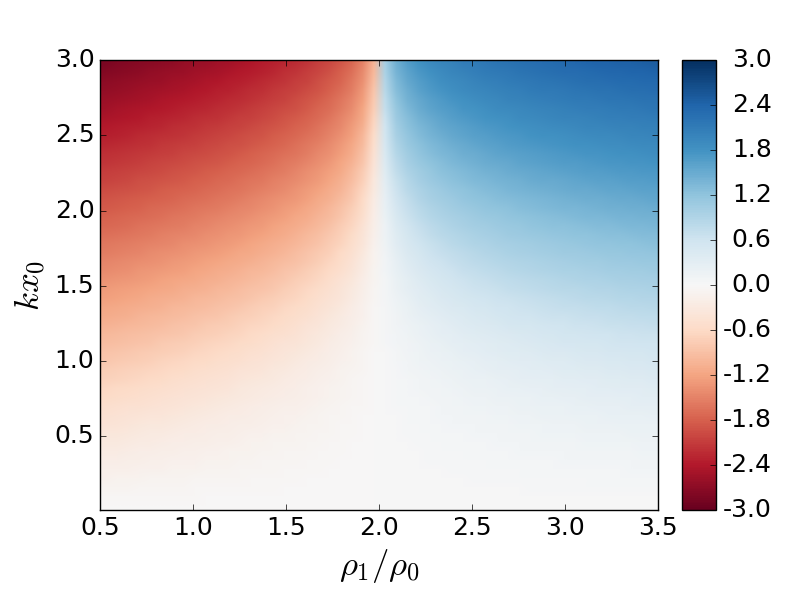
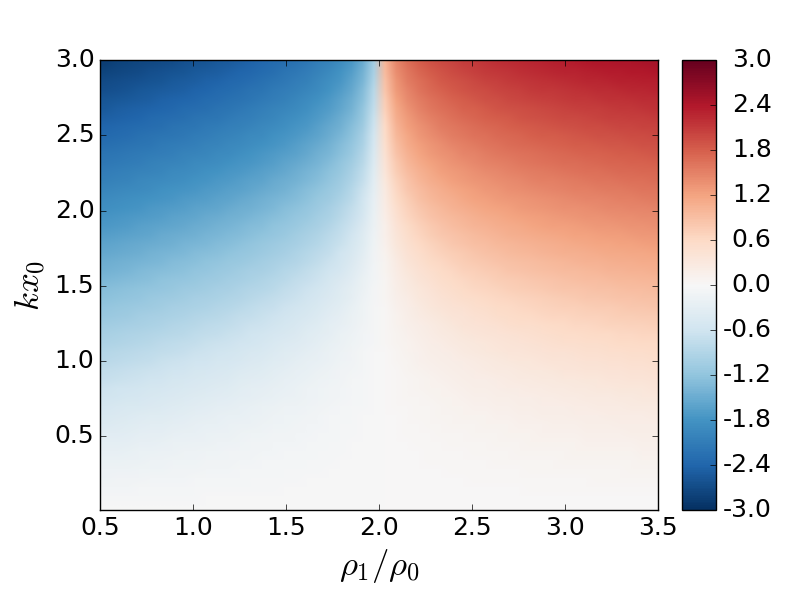
Some disp rel problems solved. Now we need log colormap with centre at 1.0. how do dis?

diff --git a/sms.py b/sms.py
@@ -13,6 +13,7 @@ import matplotlib.pyplot as plt
 import matplotlib
 import matplotlib.patches as patches
 from mpl_toolkits.axes_grid1 import make_axes_locatable
+import shiftedcolormap as scm
 
 # SBS
 # Define the sound speeds and alfven speeds.
@@ -35,11 +36,14 @@ for mode in mode_options:
     if 'saus' in mode:
         saus_mode_options.append(mode)
 
-mode = mode_options[1]
+mode = mode_options[0]
 
 #plot_variable = 'amp-ratio'
+plot_variable = 'amp-ratio-2'
 #plot_variable = 'min-pert-shift'
+#plot_variable = 'min-pert-shift-2'
 #plot_variable = 'W'
+#plot_variable = 'test'
 
 print('Plotting ' + plot_variable + ' for ' + mode + ' mode')
 
@@ -57,10 +61,38 @@ def m2(W):
     m2function = sc.sqrt(1-W**2*c2**(-2))
     return m2function
 
+def lamb0(W):
+    return -(vA**2-W**2)*1.j/(m0(W)*W)
+
+def lamb1(W, R1):
+    return R1*W*1.j/m1(W, R1)
+    
+def lamb2(W):
+    return R2*W*1.j/m2(W)
+
 error_string_kink_saus = "mode must be 'kink' or 'saus', duh!"
 error_string_subscript = "subscript argument must be 1 or 2"
 
 def disp_rel_sym(W, K, R1, mode, subscript):
+    if subscript == 1:
+        if mode in kink_mode_options:
+            dispfunction = lamb0(W) * sc.tanh(m0(W) * K) + lamb1(W,R1)
+        elif mode in saus_mode_options:
+            dispfunction = lamb0(W) + lamb1(W,R1) * sc.tanh(m0(W) * K)
+        else:
+            print(error_string_kink_saus)
+    elif subscript == 2:
+        if mode in kink_mode_options:
+            dispfunction = lamb0(W) * sc.tanh(m0(W) * K) + lamb2(W)
+        elif mode in saus_mode_options:
+            dispfunction = lamb0(W) + lamb2(W) * sc.tanh(m0(W) * K)
+        else:
+            print(error_string_kink_saus)
+    else:
+        print(error_string_subscript)
+    return dispfunction
+
+def disp_rel_sym_2(W, K, R1, mode, subscript):
     if subscript == 1:
         if mode in kink_mode_options:
             dispfunction = (vA**2 - W**2)*m1(W, R1)*sc.tanh(m0(W)*K) - R1*W**2*m0(W)
@@ -70,9 +102,9 @@ def disp_rel_sym(W, K, R1, mode, subscript):
             print(error_string_kink_saus)
     elif subscript == 2:
         if mode in kink_mode_options:
-            dispfunction = (vA**2 - W**2)*m2(W)*sc.tanh(m0(W)*K) - R1*W**2*m0(W)
+            dispfunction = (vA**2 - W**2)*m2(W)*sc.tanh(m0(W)*K) - R2*W**2*m0(W)
         elif mode in saus_mode_options:
-            dispfunction = (vA**2 - W**2)*m2(W) - R1*W**2*m0(W)*sc.tanh(m0(W)*K)
+            dispfunction = (vA**2 - W**2)*m2(W) - R2*W**2*m0(W)*sc.tanh(m0(W)*K)
         else:
             print(error_string_kink_saus)
     else:
@@ -84,12 +116,30 @@ def disp_rel_asym(W, K, R1):
             0.5 * m0(W) * W**2 * (vA**2 - W**2) * (R2 * m1(W,R1) + R1 * m2(W)) *
             (sc.tanh(m0(W) * K) + (sc.tanh(m0(W) * K))**(-1))) /
             (vA**2 - W**2) * (c0**2 - W**2) * (cT**2 - W**2))
+            
+def disp_rel_test(W, K, R1):
+    return disp_rel_sym(W, K, R1, 'saus',2) * disp_rel_sym(W, K, R1, 'kink',1) + disp_rel_sym(W, K, R1, 'saus',1) * disp_rel_sym(W, K, R1, 'kink',2)
+    
+def disp_rel_test_2(W, K, R1):
+    return (lamb0(W) + lamb2(W) * sc.tanh(m0(W) * K)) * (lamb0(W) * sc.tanh(m0(W) * K) + lamb1(W, R1)) + (lamb0(W) + lamb1(W, R1) * sc.tanh(m0(W) * K)) * (lamb0(W) * sc.tanh(m0(W) * K) + lamb2(W))
+
+def disp_rel_test_3(W, K, R1):
+    return disp_rel_sym(W, K, R1, 'kink',1) / disp_rel_sym(W, K, R1, 'kink',2) + disp_rel_sym(W, K, R1, 'saus',1) / disp_rel_sym(W, K, R1, 'saus',2)
     
 def amp_ratio(W, K, R1, mode):
     if mode in kink_mode_options:
-        ampfunction = m2(W)*disp_rel_sym(W,K,R1,'saus',1) / (m1(W,R1)*disp_rel_sym(W,K,R1,'saus',2))
+        ampfunction = disp_rel_sym(W,K,R1,'saus',1) / disp_rel_sym(W,K,R1,'saus',2)
     elif mode in saus_mode_options:
-        ampfunction = - m2(W)*disp_rel_sym(W,K,R1,'kink',1) / (m1(W,R1)*disp_rel_sym(W,K,R1,'kink',2))
+        ampfunction = - disp_rel_sym(W,K,R1,'kink',1) / disp_rel_sym(W,K,R1,'kink',2)
+    else:
+        print(error_string_kink_saus)
+    return ampfunction
+    
+def amp_ratio_2(W, K, R1, mode):
+    if mode in kink_mode_options:
+        ampfunction = - disp_rel_sym(W,K,R1,'kink',1) / disp_rel_sym(W,K,R1,'kink',2)
+    elif mode in saus_mode_options:
+        ampfunction = disp_rel_sym(W,K,R1,'saus',1) / disp_rel_sym(W,K,R1,'saus',2)
     else:
         print(error_string_kink_saus)
     return ampfunction
@@ -100,6 +150,16 @@ def min_pert_shift(W, K, R1, mode):
     elif mode in saus_mode_options:
         # recall that arccoth(x) = arctanh(1/x)
         shiftfunction = (1 / m0(W)) * sc.arctanh(- disp_rel_sym(W,K,R1,'kink',1) / disp_rel_sym(W,K,R1,'saus',1))
+    else:
+        print(error_string_kink_saus)
+    return shiftfunction
+    
+def min_pert_shift_2(W, K, R1, mode):
+    if mode in kink_mode_options:
+        shiftfunction = (1 / m0(W)) * sc.arctanh(disp_rel_sym(W,K,R1,'saus',2) / disp_rel_sym(W,K,R1,'kink',2))
+    elif mode in saus_mode_options:
+        # recall that arccoth(x) = arctanh(1/x)
+        shiftfunction = (1 / m0(W)) * sc.arctanh(disp_rel_sym(W,K,R1,'kink',2) / disp_rel_sym(W,K,R1,'saus',2))
     else:
         print(error_string_kink_saus)
     return shiftfunction
@@ -196,10 +256,16 @@ for i in range(0,NR1):
         print('Found solution number (' + str(i) + ',' + str(j) + ')')
         if plot_variable == 'amp-ratio':
             data_set[i,j] = amp_ratio(W, Kvals[j], R1vals[i], mode)
+        elif plot_variable == 'amp-ratio-2':
+            data_set[i,j] = amp_ratio_2(W, Kvals[j], R1vals[i], mode)
         elif plot_variable == 'min-pert-shift':
             data_set[i,j] = min_pert_shift(W, Kvals[j], R1vals[i], mode)
+        elif plot_variable == 'min-pert-shift-2':
+            data_set[i,j] = min_pert_shift_2(W, Kvals[j], R1vals[i], mode)
         elif plot_variable == 'W':
             data_set[i,j] = W
+        elif plot_variable == 'test':
+            data_set[i,j] = disp_rel_test_3(W,K,R1)
         else:
             print("'plot_variable' can only be 'amp-ratio' or 'min-pert-shift'")
 
@@ -219,7 +285,7 @@ def clim(data,plot_variable):
     min_level = np.floor(np.nanmin(data))
     max_level = np.ceil(np.nanmax(data))
     largest = max(abs(max_level),abs(min_level))
-    if plot_variable == 'amp-ratio':
+    if 'amp-ratio' in plot_variable:
         if 'kink' in mode:
             return [2 - max_level, max_level]
         if 'saus' in mode:
@@ -229,14 +295,32 @@ def clim(data,plot_variable):
     elif plot_variable == 'W':
         return [np.nanmin(data), np.nanmax(data)]
 
-if plot_variable == 'amp-ratio' or plot_variable == 'W':
-    cmap = 'RdBu'
+if plot_variable == 'amp-ratio':
+    if mode in kink_mode_options:    
+        cmap = 'RdBu_r'
+    elif mode in saus_mode_options:    
+        cmap = 'RdBu'
+elif plot_variable == 'W':
+    cmap = 'RdBu_r'
 else:
-    cmap = 'RdBu'
+    cmap = 'RdBu_r'
+    
+    
+    
+    
+orig_cmap = matplotlib.cm.RdBu_r
+shifted_cmap = scm.shiftedColorMap(orig_cmap, midpoint=0.75, name='shifted')
+shrunk_cmap = scm.shiftedColorMap(orig_cmap, start=0.15, midpoint=0.75, stop=0.85, name='shrunk')
+
+
+
 
 fig = plt.figure()
 aspect = 'auto'#(R1vals[-1] - R1vals[0])/(Kvals[-1] - Kvals[0])# * 0.5
-im = plt.imshow(data_set.transpose(), cmap=cmap, origin='lower', clim=clim(data_set,plot_variable), 
+#im = plt.imshow(data_set.transpose(), cmap=cmap, origin='lower', 
+#                clim=clim(data_set,plot_variable), aspect=aspect, extent=[R1vals[0],R1vals[-1],Kvals[0],Kvals[-1]])
+
+im = plt.imshow(data_set.transpose(), cmap=shifted_cmap, origin='lower', norm=matplotlib.colors.SymLogNorm(linthresh=0.03, linscale=0.03, vmin=0, vmax=20), 
                 aspect=aspect, extent=[R1vals[0],R1vals[-1],Kvals[0],Kvals[-1]])
 ax = plt.gca()
 
@@ -279,11 +363,13 @@ cb = plt.colorbar(im, cax=cax,
 ticklabs = cb.ax.get_yticklabels()
 cb.ax.set_yticklabels(ticklabs,ha='right')
 cb.ax.yaxis.set_tick_params(pad=pad(data_set))  # your number may vary
+if mode in saus_mode_options and plot_variable == 'amp_ratio':
+    cb.ax.invert_yaxis()
 
 plt.gcf().subplots_adjust(bottom=0.15)
 #plt.tight_layout()
 plt.show()
 
-filename = mode + '_' + plot_variable
-plt.savefig('D:\\my_work\\projects\\Asymmetric_slab\\Python\\sms\\sms-plots\\' 
-            + filename)
+#filename = mode + '_' + plot_variable
+#plt.savefig('D:\\my_work\\projects\\Asymmetric_slab\\Python\\sms\\sms-plots\\' 
+#            + filename)

diff --git a/sms-vA.py b/sms-vA.py
@@ -9,6 +9,7 @@ import numpy as np
 import scipy as sc
 from functools import partial
 import matplotlib.pyplot as plt
+import matplotlib
 import toolbox as tool
 
 # SBS
@@ -41,13 +42,14 @@ mode = mode_options[0]
 show_RA = False
 show_DM = False
 show_scatter_RA = False
+show_scatter_RA_2 = False
 show_scatter_DM = False
 show_scatter_DM_2 = False
 
-#show_RA = True
+show_RA = True
 #show_DM = True
-show_scatter_RA = True
-show_scatter_RA_2 = True
+#show_scatter_RA = True
+#show_scatter_RA_2 = True
 #show_scatter_DM = True
 #show_scatter_DM_2 = True
 
@@ -92,6 +94,9 @@ def disp_rel_asym(W, K, vA):
             0.5 * m0(W,vA) * W**2 * (vA**2 - W**2) * (R2 * m1(W) + R1 * m2(W)) *
             (sc.tanh(m0(W,vA) * K) + (sc.tanh(m0(W,vA) * K))**(-1))) /
             (vA**2 - W**2) * (c0**2 - W**2) * (cT(vA)**2 - W**2))
+
+def disp_rel_test(W, K, vA):
+    return disp_rel_sym(W, K, vA, 'saus',2) / disp_rel_sym(W, K, vA, 'saus',1) + disp_rel_sym(W, K, vA, 'kink',2) * disp_rel_sym(W, K, vA, 'kink',1)
     
 def amp_ratio(W, K, vA, mode):
     if mode in kink_mode_options:
@@ -145,6 +150,9 @@ def min_pert_shift_func_2(W, K, mode, vA, DM):
     
 ###############################################################################
 
+font = {'size' : 15}
+matplotlib.rc('font', **font)
+
 if show_RA == True:
     # Set up the data
     RAmin = [0.9703, 1.005, 0., -2., -0.961, -0.97348]
@@ -180,9 +188,13 @@ if show_RA == True:
     plt.ylim([0.,2.])
     plt.plot([0.,0.], [0., 2.], color='black', linestyle='-')
     ax.annotate('Body modes', xy=(1.2, 0.65), xycoords='data', annotation_clip=False, fontsize=12)
-    ax.annotate('Kink', xy=(0.3, 1.8), xycoords='data', annotation_clip=False, fontsize=15)
-    ax.annotate('Sausage', xy=(-0.8, 1.8), xycoords='data', annotation_clip=False, fontsize=15)
-
+    ax.annotate('Quasi-kink', xy=(0.15, 1.8), xycoords='data', annotation_clip=False, fontsize=15)
+    ax.annotate('Quasi-sausage', xy=(-1., 1.8), xycoords='data', annotation_clip=False, fontsize=15)
+    plt.gcf().subplots_adjust(bottom=0.15)
+    
+    filename = mode + '_RA_vA_approx'
+    plt.savefig('D:\\my_work\\projects\\Asymmetric_slab\\Python\\sms\\sms-plots\\' 
+                + filename)
 
 if show_DM == True:
     # Set up the data
@@ -209,19 +221,24 @@ if show_DM == True:
             DM_values, root_array = tool.line_trace(partial(min_pert_shift_func, W, K, mode), DM_guess[nb], 
                                                     vA_guess[nb], step[nb], DMmin[nb], DMmax[nb], (None))
             plt.plot(DM_values, root_array, linestyle=styles[nb], color='black')
-            plt.plot(DM_values, disp_rel_asym(W, K, np.real(root_array)), color='red')
+#            plt.plot(DM_values, disp_rel_asym(W, K, np.real(root_array)), color='red')
             
     ax = plt.gca()
     ax.fill_between((-1.2, -1.), (0.,0.), (2.,2.), color='lightgray')
     ax.fill_between((1., 1.2), (0.,0.), (2.,2.), color='lightgray')
     ax.fill_between((-2., 2.), (W, W), [W * c0 / (np.sqrt(c0**2 - W**2))] * 2, color='lightgray')
     ax.set_ylabel(r'$v_\mathrm{A}$', fontsize = 20)
-    ax.set_xlabel(r'$\Delta_\mathrm{min}$', fontsize = 20)
+    ax.set_xlabel(r'$\Delta_\mathrm{min} / x_0$', fontsize = 20)
     plt.ylim([0.,2.])
     plt.xlim([-1.2,1.2])
     plt.plot([-1.,-1.], [0., 2.], color='black', linestyle='-')
     plt.plot([1.,1.], [0., 2.], color='black', linestyle='-')
     ax.annotate('Body modes', xy=(0.5, 0.65), xycoords='data', annotation_clip=False, fontsize=12)
+    plt.gcf().subplots_adjust(bottom=0.15)
+    
+    filename = mode + '_DM_vA_approx'
+    plt.savefig('D:\\my_work\\projects\\Asymmetric_slab\\Python\\sms\\sms-plots\\' 
+                + filename)
 
 
 if show_scatter_RA == True:

diff --git a/shiftedcolormap.py b/shiftedcolormap.py
@@ -1,0 +1,60 @@
+# -*- coding: utf-8 -*-
+"""
+Created on Thu Aug 03 15:32:45 2017
+
+@author: Matt
+"""
+import numpy as np
+import matplotlib
+import matplotlib.pyplot as plt
+
+def shiftedColorMap(cmap, start=0, midpoint=0.5, stop=1.0, name='shiftedcmap'):
+    '''
+    Function to offset the "center" of a colormap. Useful for
+    data with a negative min and positive max and you want the
+    middle of the colormap's dynamic range to be at zero
+
+    Input
+    -----
+      cmap : The matplotlib colormap to be altered
+      start : Offset from lowest point in the colormap's range.
+          Defaults to 0.0 (no lower ofset). Should be between
+          0.0 and `midpoint`.
+      midpoint : The new center of the colormap. Defaults to 
+          0.5 (no shift). Should be between 0.0 and 1.0. In
+          general, this should be  1 - vmax/(vmax + abs(vmin))
+          For example if your data range from -15.0 to +5.0 and
+          you want the center of the colormap at 0.0, `midpoint`
+          should be set to  1 - 5/(5 + 15)) or 0.75
+      stop : Offset from highets point in the colormap's range.
+          Defaults to 1.0 (no upper ofset). Should be between
+          `midpoint` and 1.0.
+    '''
+    cdict = {
+        'red': [],
+        'green': [],
+        'blue': [],
+        'alpha': []
+    }
+
+    # regular index to compute the colors
+    reg_index = np.linspace(start, stop, 257)
+
+    # shifted index to match the data
+    shift_index = np.hstack([
+        np.linspace(0.0, midpoint, 128, endpoint=False), 
+        np.linspace(midpoint, 1.0, 129, endpoint=True)
+    ])
+
+    for ri, si in zip(reg_index, shift_index):
+        r, g, b, a = cmap(ri)
+
+        cdict['red'].append((si, r, r))
+        cdict['green'].append((si, g, g))
+        cdict['blue'].append((si, b, b))
+        cdict['alpha'].append((si, a, a))
+
+    newcmap = matplotlib.colors.LinearSegmentedColormap(name, cdict)
+    plt.register_cmap(cmap=newcmap)
+
+    return newcmap
